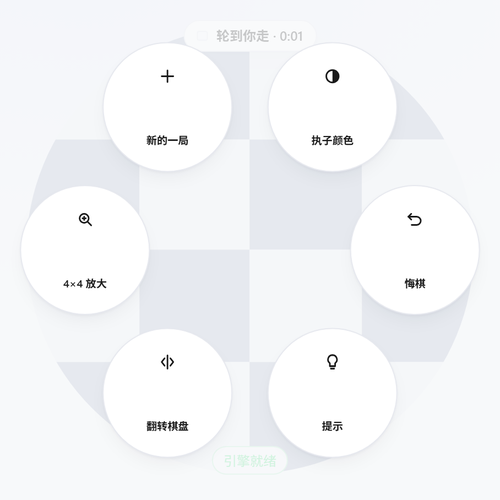
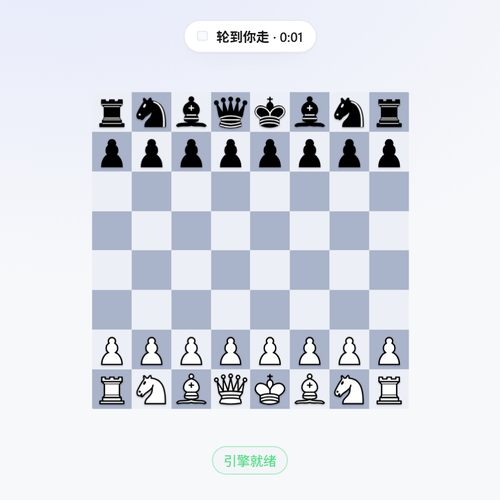
fix(watch): the 'whole board' zoom really shows all 8x8 now
zoom was doing double duty as the CSS scale factor, so the option labelled
'whole board 8x8' magnified the board 8x and showed a single square (and 4x4
was actually scale 2). The zoom is now expressed as the number of visible
files/ranks and mapped explicitly:

  8 -> scale 1/sqrt(2)  (the inscribed square of the circular viewport, so the
                         entire board fits with nothing clipped)
  4 -> scale 2          (default 4x4 window, ~43px squares at 192px)
  2 -> scale 4          (2x2 large-target fallback)

Also migrates stored settings (v1 kept a scale factor where 2 meant 4x4) and
adds a browser check asserting the board rectangle stays inside the round stage
when the whole-board zoom is selected. Screenshots/docs updated; 33/33 checks.

diff --git a/src/lib/store/settings.tsx b/src/lib/store/settings.tsx
@@ -7,12 +7,21 @@ import { loadJson, saveJson, STORAGE_KEYS } from './persist';
 
 export type ThemeChoice = 'dark' | 'light' | 'system';
 export type InterruptLevel = 'inaccuracy' | 'mistake' | 'blunder';
+/**
+ * Watch board zoom, expressed as the number of files/ranks visible:
+ * `8` = the whole board, `4` = the default 4x4 window, `2` = a 2x2 window.
+ */
 export type WatchZoom = 4 | 2 | 8;
 /** `cburnett` is the lichess piece set, `aurora` the built-in geometric one. */
 export type PieceSet = 'cburnett' | 'aurora';
 export type BoardTheme = 'deepseek' | 'classic' | 'ice';
 
+/** Bumped when a stored settings shape needs migrating. */
+export const SETTINGS_VERSION = 2;
+
 export interface Settings {
+  /** Shape version of the persisted settings. */
+  settingsVersion: number;
   locale: Locale;
   theme: ThemeChoice;
   /** Default engine strength for a new game. */
@@ -32,6 +41,7 @@ export interface Settings {
 }
 
 export const DEFAULT_SETTINGS: Settings = {
+  settingsVersion: SETTINGS_VERSION,
   locale: DEFAULT_LOCALE,
   theme: 'light',
   elo: ENGINE_ELO_DEFAULT,
@@ -40,14 +50,30 @@ export const DEFAULT_SETTINGS: Settings = {
   sound: true,
   coachInterrupt: 'mistake',
   coachEnabled: true,
-  // 2 = a 4x4 window (~40px squares on a 192px watch), the legibility
+  // 4 = a 4x4 window (~40px squares on a 192px watch), the legibility
   // recommendation from docs/reference/watch-ui-notes.md.
-  watchZoom: 2,
+  watchZoom: 4,
   watchBatterySaver: true,
   coachDepth: 14,
   pieceSet: 'cburnett',
   boardTheme: 'deepseek',
 };
+
+/**
+ * v1 stored `watchZoom` as a *scale factor* (2 meant a 4x4 window, and 8 — the
+ * "whole board" option — scaled the board 8x so only one square was visible).
+ * v2 stores the number of visible squares instead.
+ */
+function migrateStoredSettings(stored: Partial<Settings>): Partial<Settings> {
+  const patch: Partial<Settings> = { ...stored };
+  if ((stored.settingsVersion ?? 1) < SETTINGS_VERSION) {
+    if (stored.watchZoom === 2) patch.watchZoom = 4;
+    else if (stored.watchZoom === 4) patch.watchZoom = 2;
+    else if (stored.watchZoom === 8) patch.watchZoom = 8;
+  }
+  patch.settingsVersion = SETTINGS_VERSION;
+  return patch;
+}
 
 interface SettingsContextValue {
   settings: Settings;
@@ -71,10 +97,11 @@ export function SettingsProvider({ children, initial }: { children: ReactNode; i
 
   // Hydrate from storage after mount so SSR markup stays deterministic.
   useEffect(() => {
-    const stored = loadJson<Settings>(STORAGE_KEYS.settings, DEFAULT_SETTINGS);
+    // Read the raw stored object (empty fallback = no merge) so the migration
+    // can tell a v1 payload from a v2 one.
+    const stored = loadJson<Partial<Settings>>(STORAGE_KEYS.settings, {});
     const browserLocale = resolveLocale(typeof navigator !== 'undefined' ? navigator.language.slice(0, 2) : undefined);
-    // Stored value wins, otherwise fall back to the browser language.
-    setSettings(prev => ({ ...prev, ...stored, locale: stored.locale ?? browserLocale }));
+    setSettings(prev => ({ ...prev, ...migrateStoredSettings(stored), locale: stored.locale ?? browserLocale }));
     setReady(true);
   }, []);
 

diff --git a/src/components/watch/WatchBoard.tsx b/src/components/watch/WatchBoard.tsx
@@ -6,7 +6,25 @@ import type { PieceType } from '@/components/board/PieceArt';
 import { fileIndex, rankIndex } from '@/lib/chess/pieces';
 import type { Color, Square } from '@/lib/chess/types';
 
-export type WatchZoom = 2 | 4 | 8;
+/**
+ * Circles visible per side of the panned window.
+ *
+ *  - `8` shows the whole board (as a map / overview),
+ *  - `4` is the default working zoom (~40px squares at a 192px viewport),
+ *  - `2` is the large-target fallback for small or shaky fingers.
+ */
+export type WatchZoom = 4 | 2 | 8;
+
+/**
+ * The viewport is a circle, so a square board only fits completely inside its
+ * inscribed square (1/√2 ≈ 0.707 of the diameter). The full-board zoom uses
+ * that factor; the windowed zooms simply magnify by `8 / squares`.
+ */
+const INSCRIBED = Math.SQRT1_2;
+
+export function watchScale(zoom: WatchZoom): number {
+  return zoom === 8 ? INSCRIBED : 8 / zoom;
+}
 
 export interface WatchBoardProps {
   pieces: BoardPieceMap;
@@ -54,24 +72,29 @@ export function WatchBoard({
   onPromote,
   className,
 }: WatchBoardProps) {
+  const scale = watchScale(zoom);
+
   const center = useMemo(() => {
     // Board coordinates of the point that must sit in the middle of the circle.
     const target = focus ?? selected ?? lastMove?.to ?? lastMove?.from ?? null;
+    // The full board is centred and never pans.
     if (zoom === 8 || !target) return { x: 0.5, y: 0.5 };
     const file = fileIndex(target);
     const rank = rankIndex(target);
     const rawX = orientation === 'w' ? (file + 0.5) / 8 : 1 - (file + 0.5) / 8;
     const rawY = orientation === 'w' ? 1 - (rank + 0.5) / 8 : (rank + 0.5) / 8;
-    // Keep the window inside the board.
-    const half = 0.5 / zoom;
+    // Keep the visible window inside the board.
+    const half = 0.5 / scale;
     return {
       x: Math.min(1 - half, Math.max(half, rawX)),
       y: Math.min(1 - half, Math.max(half, rawY)),
     };
-  }, [focus, lastMove, orientation, selected, zoom]);
+  }, [focus, lastMove, orientation, scale, selected, zoom]);
 
-  const translateX = (0.5 - center.x * zoom) * 100;
-  const translateY = (0.5 - center.y * zoom) * 100;
+  // Translate is expressed in percent of the (unscaled) board box, so that the
+  // point `center` lands exactly in the middle of the viewport.
+  const translateX = (0.5 - center.x * scale) * 100;
+  const translateY = (0.5 - center.y * scale) * 100;
 
   return (
     <div className={`watch-stage ${className ?? ''}`}>
@@ -81,7 +104,7 @@ export function WatchBoard({
             width: '100%',
             height: '100%',
             transformOrigin: '0 0',
-            transform: `translate(${translateX}%, ${translateY}%) scale(${zoom})`,
+            transform: `translate(${translateX}%, ${translateY}%) scale(${scale})`,
             transition: 'transform 180ms ease-out',
           }}
         >

diff --git a/src/components/watch/WatchScreen.tsx b/src/components/watch/WatchScreen.tsx
@@ -126,12 +126,13 @@ export function WatchScreen() {
   }, [controller.clockMs, controller.status, controller.turn, playerColor, t]);
 
   const cycleZoom = useCallback(() => {
-    const next: WatchZoom = zoom === 2 ? 4 : zoom === 4 ? 8 : 2;
+    // 4x4 (default) -> 2x2 (huge) -> whole board -> back to 4x4.
+    const next: WatchZoom = zoom === 4 ? 2 : zoom === 2 ? 8 : 4;
     setZoom(next);
     update({ watchZoom: next });
   }, [update, zoom]);
 
-  const zoomLabel = zoom === 2 ? t('watch.zoom4') : zoom === 4 ? t('watch.zoom2') : t('watch.zoom8');
+  const zoomLabel = zoom === 4 ? t('watch.zoom4') : zoom === 2 ? t('watch.zoom2') : t('watch.zoom8');
   const promotionRequest = controller.promotion;
 
   return (

diff --git a/README.md b/README.md
@@ -10,9 +10,9 @@
 
 在 192×192 圆形手表视口下（同一套代码，自动切换布局）：
 
-| 对局 | 径向菜单 |
-| --- | --- |
-| ![手表棋盘](docs/screenshots/watch-192.png) | ![手表菜单](docs/screenshots/watch-menu.png) |
+| 对局（默认 4×4 放大） | 径向菜单 | 整盘 8×8 |
+| --- | --- | --- |
+| ![手表棋盘](docs/screenshots/watch-192.png) | ![手表菜单](docs/screenshots/watch-menu.png) | ![手表整盘](docs/screenshots/watch-full.png) |
 
 ---
 
@@ -39,7 +39,7 @@ npm run engine:setup     # 重新拷贝 Stockfish WASM（同上）
 | **与引擎对弈** `/play` | 拖拽或点选落子；ELO 从 600 到 3000 无级调节；引擎带"拟人化"选着模型（见下文）；悔棋、提示、翻转、认输、PGN 导出、时钟 |
 | **教练模式** `/coach` | 每一步给出**着法评级**（最佳/优秀/良好/谱招/唯一着法/不精确/失误/严重失误）；高于阈值的失误会**打断并暂停引擎应手**，可一键悔棋重走；可随时要**提示**（棋盘箭头 + 推荐着法） |
 | **复盘分析** `/review` | 整盘棋逐着评分、双方准确率、失误统计、一键跳到问题手；支持粘贴/导出 PGN |
-| **手表模式** `/watch` | 为圆形小屏设计：4×4 放大棋盘（可切 2×2 / 8×8）、点选两步落子、径向菜单与径向升变环、省电模式 |
+| **手表模式** `/watch` | 为圆形小屏设计：默认 4×4 放大棋盘，可切 2×2（超大点击目标）与 8×8 整盘视图（按圆内接正方形 1/√2 缩放，**整盘完整可见**）；点选两步落子、径向菜单与径向升变环、省电模式 |
 
 其他：浅色/深色/跟随系统主题、中英双语、棋子与棋盘配色可切换、设置与棋谱本地持久化、无 emoji 的纯图标界面、`prefers-reduced-motion` 支持。
 
@@ -75,7 +75,7 @@ npm run engine:smoke# 启动 vendored WASM 跑真 UCI           → 11/11 通过
 npm run build       # next build（6 条路由静态预渲染）        → 通过
 npm start &         # 本地起生产服务
 node scripts/browser-e2e.mjs http://127.0.0.1:3000
-                    # 无头 Edge 真实浏览器端到端              → 32/32 通过
+                    # 无头 Edge 真实浏览器端到端              → 33/33 通过
 ```
 
 `scripts/browser-e2e.mjs` 只用 Node 内置的 `fetch`/`WebSocket`（无需 Playwright），
@@ -91,7 +91,7 @@ node scripts/browser-e2e.mjs http://127.0.0.1:3000
 | 对弈闭环 | 在 `/play` 上用真实指针事件点选 `e2→e4` 落子，引擎应手，棋谱出现 `e4 d6` |
 | 教练 | 在 `/coach` 走一步后，面板给出一行评级（如 `d4 良好`）且不含解释文字 |
 | 复盘 | 在 `/review` 载入上一局并跑完整盘分析，产出准确率统计 |
-| 手表 | 模拟 192×192 圆屏：进入手表布局、隐藏导航、整屏适配、棋盘每格 ≥30px、径向菜单 6 个控件且每个 ≥48px 并且不越界 |
+| 手表 | 模拟 192×192 圆屏：进入手表布局、隐藏导航、整屏适配、默认 4×4（每格 43px）、径向菜单 6 个控件且每个 ≥48px 不越界；切到整盘 8×8 时棋盘完整落在圆内（无裁剪） |
 
 截图产物在 `.cache/e2e/`，仓库内的 `docs/screenshots/`（首页、对弈、教练、复盘、手表 192/454）是压缩后的界面截图。
 

diff --git a/docs/DEVELOPMENT_PLAN.md b/docs/DEVELOPMENT_PLAN.md
@@ -12,7 +12,7 @@
 | M4 教练系统 | 完成 | `findings.test.ts` 22 项 + `openings.test.ts` 7 项（送子/牵制/叉子/杀棋/兵形/开局库） |
 | M5 界面 | 完成 | 无头 Edge 端到端：真实点选落子 → 引擎应手 → 棋谱正确 |
 | M6 手表端 | 完成 | 192×192 圆屏模拟：无导航壳、整屏适配、每格 43px、径向控件 50px 且不越界 |
-| M7 质量与交付 | 完成 | `tsc --noEmit` 0 error、88 项单测、11 项引擎自检、32 项浏览器端到端、README/架构文档 |
+| M7 质量与交付 | 完成 | `tsc --noEmit` 0 error、88 项单测、11 项引擎自检、33 项浏览器端到端、README/架构文档 |
 
 ## M8 视觉与棋子（追加需求）
 
@@ -29,6 +29,7 @@
 | 去除所有 emoji | 棋组符号、模式入口、主题开关、复盘翻页、手表径向菜单全部换成内联 SVG；`QUALITY_META` 的书本符号换成 ≡；文档里的对勾等一并清理 | E2E 新增「五个页面渲染文本不含 `Extended_Pictographic`」检查，另有脚本扫描 `src/public/scripts/docs` 全量源码 |
 | 去除每一步的解释 | 教练面板从「评级 + 为什么 + 损失分值 + 推荐着法 + 局面提示」精简为**一行评级**（仅在超过中断阈值时附带悔棋重走/继续/显示最佳）；移除控制器里的 `analysePosition` 调用与棋盘标注方块；首页与设置里的说明段、强度说明句一并删除 | E2E：`/coach` 走子后面板只显示 `d4 良好` |
 | 去除「极光棋」 | 顶栏副标题与页脚不再显示 `app.short`；`app.tagline` 去掉「极光国际象棋」；棋子备选名「极光几何」改为「几何棋子」 | 界面文本检查 |
+| 修复手表「整盘 8×8」 | 根因：`zoom` 同时充当 CSS 缩放倍数，选「整盘」时反而把棋盘放大 8 倍，只能看到 1 格。改为按「可见格数」语义映射（8→圆内接正方形 1/√2，4→scale 2，2→scale 4），并加了设置迁移（v1 把 zoom 当缩放倍数） | E2E：切到整盘后棋盘矩形完全落在圆形舞台内，8×8 全部可见 |
 | 修复「提示」无效 | 根因：`requestHint` 的 `useCallback` 漏了 `engineReady` 依赖，引擎加载完成前创建的闭包把 `engineReady = false` 永久捕获，点击后直接 `return`。补上依赖即修复 | E2E：点击「提示」后棋盘出现推荐着法箭头 |
 
 > 启发式解释引擎（`lib/coach/findings.ts`、`probe.ts`）与它的 22 项单测保留，但按当前设计不在

diff --git a/docs/ARCHITECTURE.md b/docs/ARCHITECTURE.md
@@ -107,7 +107,7 @@
 | UCI 客户端（握手、MultiPV 归并、取消、错误、进度） | Vitest + 伪造 Worker |
 | 真实引擎二进制 | `npm run engine:smoke`：启动 vendored WASM 跑真 UCI，11 项断言 |
 | 生产构建 | `npm run build`（Next 静态预渲染 6 条路由） |
-| 真实浏览器（引擎/棋子/对弈/教练/复盘/手表） | `scripts/browser-e2e.mjs`：Node 内置 fetch+WebSocket 驱动 CDP，32 项断言 |
+| 真实浏览器（引擎/棋子/对弈/教练/复盘/手表） | `scripts/browser-e2e.mjs`：Node 内置 fetch+WebSocket 驱动 CDP，33 项断言 |
 | 部署后引擎可用性 | `/engine-selftest.html`（浏览器内真机自检） |
 
 ## 7. 外观系统
